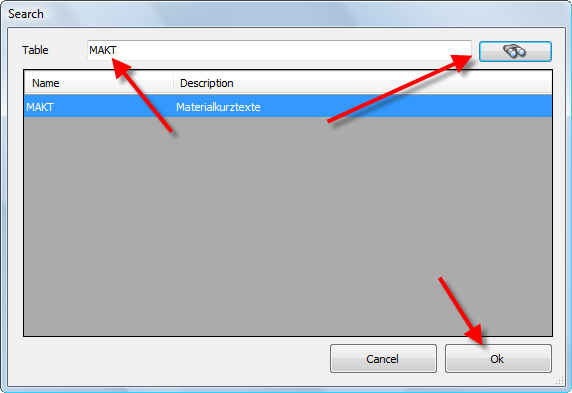
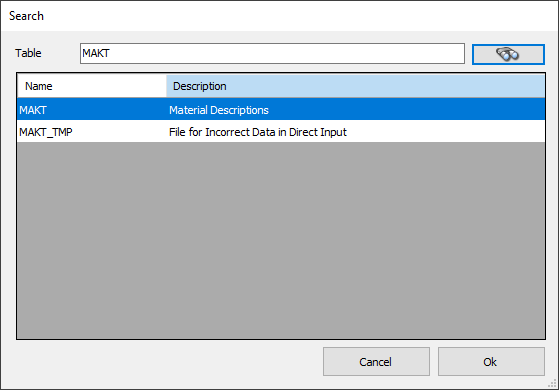
LINQ to SAp Table component

diff --git a/content/_de/erpconnect/linq-to-sap/linq-to-sap-tabellen.md b/content/_de/erpconnect/linq-to-sap/linq-to-sap-tabellen.md
@@ -11,23 +11,43 @@ lang: de_DE
 old_url: /ERPConnect-DE/default.aspx?pageid=linq-to-sap-tabellen
 ---
 
-**Sie finden den Code dieses Beispiels im ERPConnect-Installationsverzeichnis im Verzeichnis LINQTable**
+Der folgende Abschnitt beschreibt die Anwendung der Table Komponente aus der *LINQ to ERP* Toolbox.
 
-Anknüpfend an das letzte TeilAbschnitt öffnet sich nun die Suchmaske für die Tabellenauswahl. Übernehmen Sie die gewünschte Tabelle, indem Sie mit OK bestätigen.
+### Eine Tabelle finden
 
+1. Übernehmen Sie die gewünschte Tabelle, indem Sie mit OK bestätigen.
+2. Geben Sie in das Feld Table name (1) den Namen der zu extrahierenden Tabelle ein. Falls nötig, verwenden Sie Wildcards (*).
 ![LINQToERP-Tables-001](/img/content/LINQToERP-Tables-001.png){:class="img-responsive"}
+3. Klicken Sie auf **[Search]** (Fernglassymbol)(2). Die Suchergebnisse werden im Vorschaufenster angezeigt.
+4. Wählen Sie die gewünschte Tabelle (3) aus und klicken Sie auf **[OK]** (4).
 
-Nachdem die gewünschte Tabelle selektiert wurde, öffnet sich der folgende Auswahldialog. Hier können Sie die gewünschten Spalten ankreuzen, die später in der Ergebnismenge zur Verfügung stehen sollen. Außerdem können Sie noch den Namen der Proxy-Klasse ändern, die intern generiert wird. Standardmäßig entsprechen die Namen der Spalten auch den späteren Properties der Proxy-Klasse. Sie können einen eigenen Namen vergeben, indem Sie die Angabe in der Spalte Member überschreiben. 
+### Spalten Filtern
+Nachdem eine Tabelle geladen wurde, öffnet sich das Fenster "LINQ to ERP Tables".
 
+1. Markieren Sie alle Spalten, die in der Ergebnismenge zur Verfügung stehen sollen (5).
+2. Optional: Sie können den Namen der Proxy-Klasse ändern, die intern generiert wird. 
+Standardmäßig entsprechen die Namen der Spalten den späteren Properties der Proxy-Klasse. 
+Sie können einen eigenen Namen vergeben, indem Sie die Angabe in der Spalte **Member** überschreiben (6). 
 ![LINQToERP-Tables-002](/img/content/LINQToERP-Tables-002.png){:class="img-responsive"}
-
-Bestätigen Sie mit *OK*. Es ist nun ein entsprechendes Icon im Designer zu sehen. Speichern Sie die .erp-Datei um die Code-Generierung der Proxy-Klasse im Hintergrund zu veranlassen. (Der geneigte Leser kann sich die implizit generierte Datei .Designer.cs/vb gerne einmal näher ansehen, sie zeigt, wie die LINQ-Logik auf die tradionelle ERPConnect-Logik gemappt wird.)
-
+3. Klicken Sie auf **[Preview]**, um die Ergebnistabelle zu prüfen.
+4. Bestätigen Sie Ihr Eingaben mit **[OK]**. Das Fenster "LINQ to ERP Tables" schließt sich und im Designer wird ein entsprechendes Icon erstellt.<br>
 ![LINQToERP-Tables-003](/img/content/LINQToERP-Tables-003.png){:class="img-responsive"}
 
+Um die Tabelle zu bearbeiten, doppelklicken Sie auf das Table Icon im Designer.
 
-Um nun die LINQ-fähige Klasse im Code anzusteuern, muss zunächst der Data-Kontext instanziiert werden. Dies geschieht entweder unter Angabe von Benutzer und Passwort (mit den bereits hinterlegten Systemparametern) oder alternativ unter Angabe der kompletten Anmeldeinfos (der Konstruktor der DataContext-Klasse ist entsprechend überladen, alternativ kann auch das bereits bekannte R3Connection-Objekt direkt über DataContext.Connection angesprochen werden). Mit DataContext können nun entsprechende LINQ-Abfragen formuliert werden: 
+### Die Klasse verwenden
+Speichern Sie die .erp-Datei, um die Code-Generierung der Proxy-Klasse im Hintergrund anzustoßen. 
 
+{: .box-tip }
+**Tipp:** Erfahrene BenutzerInnen können sich die implizit generierte Datei `.Designer.cs/vb` näher ansehen, die zeigt wie die LINQ-Logik auf die tradionelle ERPConnect-Logik gemappt wird.
+
+Um die LINQ-fähige Klasse im Code anzusteuern, instanziieren Sie den DataContext. <br>
+Das geht über folgende Angaben:
+- Angabe von Benutzer und Passwort mit den bereits hinterlegten Systemparametern. 
+- Angabe der kompletten Anmeldeinformationen. Der Konstruktor der DataContext-Klasse ist entsprechend überladen.
+- Wenn das R3Connection-Objekt bereits bekannt ist, sprechen Sie DataContext.Connection direkt an. 
+ 
+Mit dem DataContext können nun entsprechende LINQ-Abfragen formuliert werden: <br>
 <details>
 <summary>[C#]</summary>
 {% highlight csharp %}

diff --git a/content/_en/erpconnect/linq-to-sap/tables.md b/content/_en/erpconnect/linq-to-sap/tables.md
@@ -11,24 +11,40 @@ lang: en_GB
 old_url: /ERPConnect-EN/default.aspx?pageid=linq-to-sap-tables
 ---
 
-**The sample code is located in the installation directory in theLINQTable directory**
+The following section shows how to use the Table component of the *LINQ to ERP* toolbox.
 
-Following up on the previous section, a search mask now opens up for the selection of tables. Take the desired table by confirming your selection with OK. 
+### Look Up a Table
+1. Drag&Drop the Table component into the *LINQ to ERP* DataContext. A search window opens. 
+2. Enter the name of the table to be extracted in the field **Table** (1). Use wildcards (*) if necessary. <br>
+![LINQToERP-Tables-001](/img/content/LINQToERP-Tables-001.png){:class="img-responsive" }
+3. Click **[Search]** (binoculars icon) (2). Search results appear in the preview window.
+4. Select the desired table (3) and click **[OK]** (4).
 
-![LINQToERP-Tables-001](/img/content/LINQToERP-Tables-001.png){:class="img-responsive" width="600px" }
+### Filtering Columns
+After a table has been selected, the window "LINQ to ERP Tables" opens. 
 
+1. Mark all columns that are to be made available in the query output (5). 
+2. Optional: You can change the name of the proxy class that is generated internally. 
+By default the names of the columns correspond to the properties of the proxy class. 
+You can name them yourself by writing over the entry in the column **Member** (6). <br>
+![LINQToERP-Tables-002](/img/content/LINQToERP-Tables-002.png){:class="img-responsive" }
+3. Click **[Preview]** (7) to check the result table.
+4. Click **[OK]** (8) to confirm your selection. The window "LINQ to ERP Tables" closes and a corresponding icon is created in the Designer. <br>
+![LINQToERP-Tables-003](/img/content/LINQToERP-Tables-003.png){:class="img-responsive" }
 
-After the desired table has been selected, the following selection dialog will open. Here you check off the desired columns that are to be made available later on in the query output. You can also change the name of the proxy class that is internally generated. By default, the names of the columns correspond with the properties of the proxy class later on. You can name them yourself by writing over the entry in the Member column.
+### How to Use the Class
+Save the .erp file that contains the extraction component to trigger the proxy classes code generation in the background. <br>
 
-![LINQToERP-Tables-002](/img/content/LINQToERP-Tables-002.png){:class="img-responsive" width="800px" }
+{: .box-tip }
+**Tip:** Experienced users can have a closer look at the implicitly generated file .Designer.cs/vb that shows how LINQ logic is mapped to traditional ERPConnect logic.  
 
-Confirm this by clicking OK. Now you'll see a corresponding icon in the Designer. Save the .erp file in order to trigger the proxy classes code generation in the background. Experienced users can have a closer look at the implicitly generated file .Designer.cs/vb which shows how LINQ logic is mapped to traditional ERPConnect logic.  
+To access the LINQ-capable class in the code, instantiate the DataContext. <br>
+There are multiple ways to do that:
+- Enter the user name and password with the previously stored system parameters. 
+- Enter the entire registration information (the constructor of the DataContext class is accordingly overloaded). 
+- If you already know the R3Connection object, address it directly via the DataContext.Connection
 
-![LINQToERP-Tables-003](/img/content/LINQToERP-Tables-003.png){:class="img-responsive" width="800px" }
-
-To now access the LINQ-capable class in the code, the data context first has to be instantiated. This is either done by entering the user name and password (with the previously stored system parameters) or alternatively entering the entire registration information (the constructor of the DataContext class is accordingly overloaded; alternatively, if you already know the R3Connection object, it can be addressed directly via the DataContext.Connection). With DataContext, the corresponding LINQ queries can be formulated: 
-
-
+Using the DataContext, the corresponding LINQ queries can be formulated as shown the example below: <br>
 <details>
 <summary>Click to open C# example.</summary>
 {% highlight csharp %}

diff --git a/content/_de/erpconnect/linq-to-sap/linq-to-sap-installation-und-erste-schritte.md b/content/_de/erpconnect/linq-to-sap/linq-to-sap-installation-und-erste-schritte.md
@@ -20,15 +20,14 @@ Die Installation des *LINQ to SAP*-Designers erfolgt nicht automatisch mit der I
 Führen Sie die folgenden Schritte aus, um das Add-On zu installieren:
 
 1. Schließen Sie Visual Studio.
-2. Im ERPConnect Verzeichnis (`C:\Program Files\ERPConnect`) befinden sich Setups, die die Installation des *LINQ to SAP*-Designers durchführen.
-Starten Sie das Setup, das Ihrer Visual Studio Version entspricht. <br>
-Folgende Setups sind verfügbar:<br>
+2. Im ERPConnect Verzeichnis (`C:\Program Files\ERPConnect`) befinden sich Setups, die die Installation des *LINQ to SAP*-Designers durchführen.<br>
+Starten Sie das Setup, das Ihrer Visual Studio Version entspricht. Folgende Setups sind verfügbar:<br>
 - LINQtoERPSetupVS2012.exe
 - LINQtoERPSetupVS2013.exe
 - LINQtoERPSetupVS2015.exe
 - LINQtoERPSetupVS2017.exe
 - LINQtoERPSetupVS2019.exe<br>
-3. Klicken Sie im *LINQ to ERP Setup* auf **[Install]**, um den Designer zu installieren.<br>
+3. Klicken Sie im *LINQ to ERP Setup* auf **[Install]**, um den *LINQ to SAP* zu installieren.<br>
 ![LINQToERP-First-Steps-002](/img/content/LINQToERP-First-Steps-002.png){:class="img-responsive"}
 4. Nach beendeter Installation starten Sie Visual Studio. 
 

diff --git a/content/_en/erpconnect/linq-to-sap/installation-and-first-steps.md b/content/_en/erpconnect/linq-to-sap/installation-and-first-steps.md
@@ -21,15 +21,14 @@ Follow the steps below to install the *LINQ to SAP* add-on:
 
 1. Close Visual Studio.
 2. Navigate to the ERPConnect directory (`C:\Program Files\ERPConnect`).
-The directory includes setups to install the *LINQ to SAP* Designer. 
-Start the setup that corresponds to your Visual Studio Version. <br>
-The following Setups are available:
+The directory includes setups to install the *LINQ to SAP* Designer. <br>
+Start the setup that corresponds to your Visual Studio Version. The following Setups are available:
 - LINQtoERPSetupVS2012.exe
 - LINQtoERPSetupVS2013.exe
 - LINQtoERPSetupVS2015.exe
 - LINQtoERPSetupVS2017.exe
 - LINQtoERPSetupVS2019.exe<br>
-3. In the setup window, click **[Install]**.
+3. In the setup window, click **[Install]** to install *LINQ to SAP*.
 ![LINQToERP-First-Steps-002](/img/content/LINQToERP-First-Steps-002.png){:class="img-responsive"}
 4. After the installation is finished, start Visual Studio.
 

diff --git a/content/_de/erpconnect/linq-to-sap.md b/content/_de/erpconnect/linq-to-sap.md
@@ -28,5 +28,7 @@ Um die fertige Anwendung an den Kunden zu verteilen, stellen Sie Ihren Kunden di
 - Microsoft.NET 3.5 oder höher. Frühere .NET Versionen unterstützten kein LINQ. 
 - Visual Studio 2008 order höher (ohne Express). 
 
+Weitere Informationen zum Arbeiten mit *LINQ to SAP* finden Sie in den folgenden Unterabschnitten.
+
 ****
 {% include _content/table-of-contents.html parent=page.childidentifier collection=site.de %}

diff --git a/content/_en/erpconnect/linq-to-sap.md b/content/_en/erpconnect/linq-to-sap.md
@@ -29,5 +29,7 @@ No other .dlls are needed.
 - Microsoft.NET 3.5 (or higher). Previous .NET versions do not support LINQ.
 - Visual Studio 2008 or higher (excluding Express).
 
+More information on working with *LINQ to SAP* is provided in the following sections.
+
 ****
 {% include _content/table-of-contents.html parent=page.childidentifier collection=site.en %}
